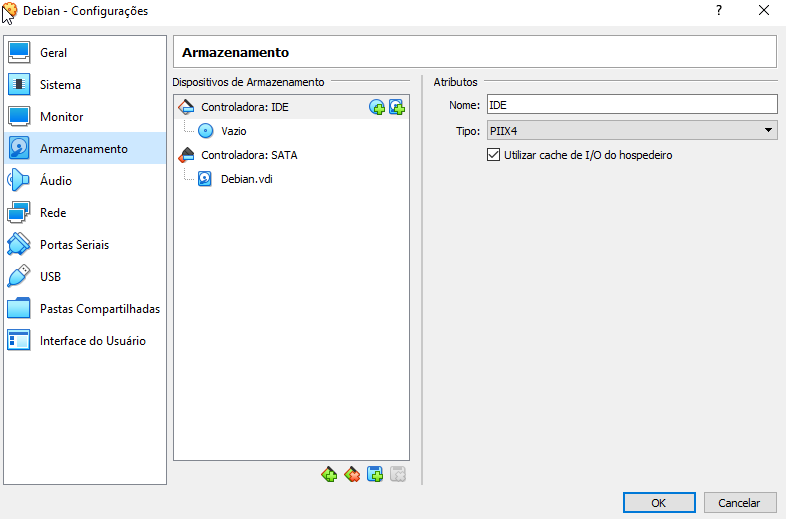
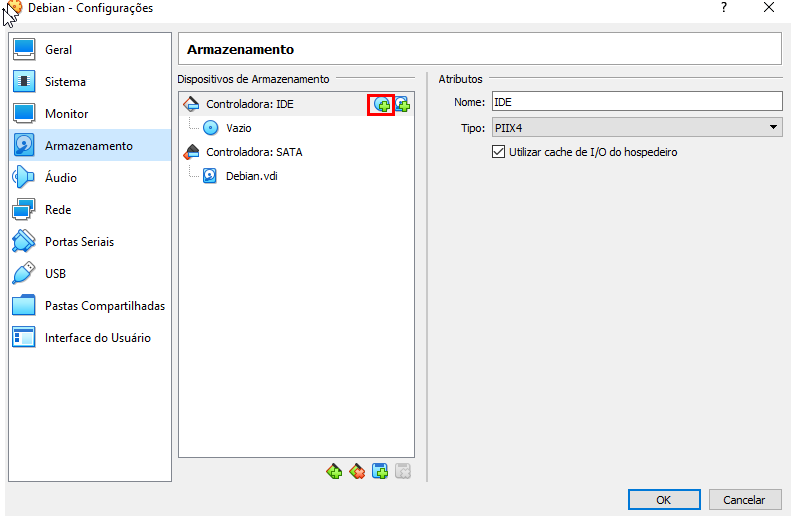
Completando

diff --git a/README.md b/README.md
@@ -1,10 +1,88 @@
 # GuiaDebian - Um guia de instalação do debian
+<p>&#32;&#32;<em>Alguns passos nesse guia poderá não ser destacado por algumas parte da intalação ser de fácil entedimento.</em><p>
 
  <br>
- <p>1 - Primeiramente: Você deve baixar um programa para virtualizar o seu sitema operacional. Isaremos aqui o virtual-box por exemplo </p>
- <a href="https://www.virtualbox.org/wiki/Downloads">Dowload Virtual-box</a><br>
+ <p>1 - Primeiramente: Você deve baixar um programa para virtualizar o seu sitema operacional. Usaremos aqui o virtual-box por exemplo </p>
+ <a href="https://www.virtualbox.org/wiki/Downloads">Dowload Virtual-box</a>
+ <br><br>
 
  <p>2 - Segundo: Baixe a iso do Debian</p>
-  <a href="https://cdimage.debian.org/debian-cd/current/amd64/iso-cd/">Download Debian10</a><br>
+  <a href="https://cdimage.debian.org/debian-cd/current/amd64/iso-cd/">Download Debian10</a><br><br>
+
+  <p>3 - Crie uma nova maquina virtual clicando em "Novo"</p>
+  <img src="virtual1.png">
+<br><br>
+  
+  <p>4 - Adicione o nome da sua maquina, como por exemplo "Debian10".</p>
+  <img src="virtual2.png">
+  <br><br>
+
+   <p>5 - Coloque uma quantidade de memoria que você veja que não travara. Recomendo colocar de 4GB para frente, mas faça de acordo com o que você possui. </p>
+  <img src="virtual3.png">
+  <br><br>
+
+   <p>6 - Deixe a opção de "Criar um novo disco..." e depois clique em "Criar"</p>
+  <img src="virtual4.png">
+  <br><br>
+
+  <p>7 - Deixe a opção de "VDI" e depois clique em "proximo"</p>
+  <img src="virtual5.png">
+  <br><br>
+
+  <p>8 - Deixe a opção de "Dinamicamente alocado" e depois clique em "proximo"</p>
+  <img src="virtual6.png">
+  <br><br>
+
+  <p>9 - Defina o tamanho de memoria que ira ser alocada para sua maquina virtual. Requisito minimo recomendado seria de 10GB em diante. </p>
+  <img src="virtual7.png">
+  <br><br>
+
+  <p>10 - Clique duas vezes sobre sua maquina virtual para iniciar. </p>
+  <img src="virtual8.png">
+  <br><br>
+
+  <p>11 - Escolha a iso do debian que já esta baixada em seu computador. </p>
+  <img src="virtual9.png">
+  <br><br>
+
+   <p>11.1 - Caso você não consiga adicionar sua iso atravez do passo "11", Vá nas configurações e tente adicionar pelo menu de armazenamento. </p>
+  <img src="virtual9.1.png">
+  <br><br>
+
+  <p>11.1 - Após adicionando, ira aparecer esse menu em sua tela.  A partir dai você ira escolher o tipo de instalação. No nosso caso iremos instalar o com interface grafica, ou seja a "Graphical Debian".</p>
+  <img src="2021-08-24 19_55_01-Window.png">
+  <br><br>
+
+  <p>12 - Os opções a seguir serão todas relacionadas a idiomas, escolha de acordo com sua preferência. No meu caso, escolherei todas Português-Brasil.</p>
+  <img src="virtual10.png">
+  <br><br>
+
+  <p>13 - Escolha um nome qualquer para sua maquina. Caso você não tenha conhecimento sobre o que fazer na tela seguinte e não quiser também colocar uma senha, você poderá pular, que é o que eu fiz.</p>
+  <img src="virtual11.png">
+  <br><br>
+
+  <p>14 - Escolha um nome de usuario</p>
+  <img src="virtual12.png">
+  <br><br>
+
+   <p>15 - Use a opção de "Usar o disco inteiro", para uma instalação mais simplificada.</p>
+  <img src="virtual13.png">
+  <br><br>
+
+   <p>16 - Escolha a opção de "Partições /home,/var e /tmp..", por se tratar de um hambiente de teste.</p>
+  <img src="virtual14.png">
+  <br><br>
+
+  <p>17 - Sera apresentado uma tela para fazer algumas configurações de particionamento. Clique na opção "Finalizar o particionamento...".</p>
+  <img src="virtual15.png">
+  <br><br>
+
+  <p>18 - Logo após se estiver tudo certo confirme marcando a opção "sim".</p>
+  <img src="virtual16.png">
+  <br><br>
+
+
+
+  
  
-<img src="2021-08-24 19_55_01-Window.png">
+
